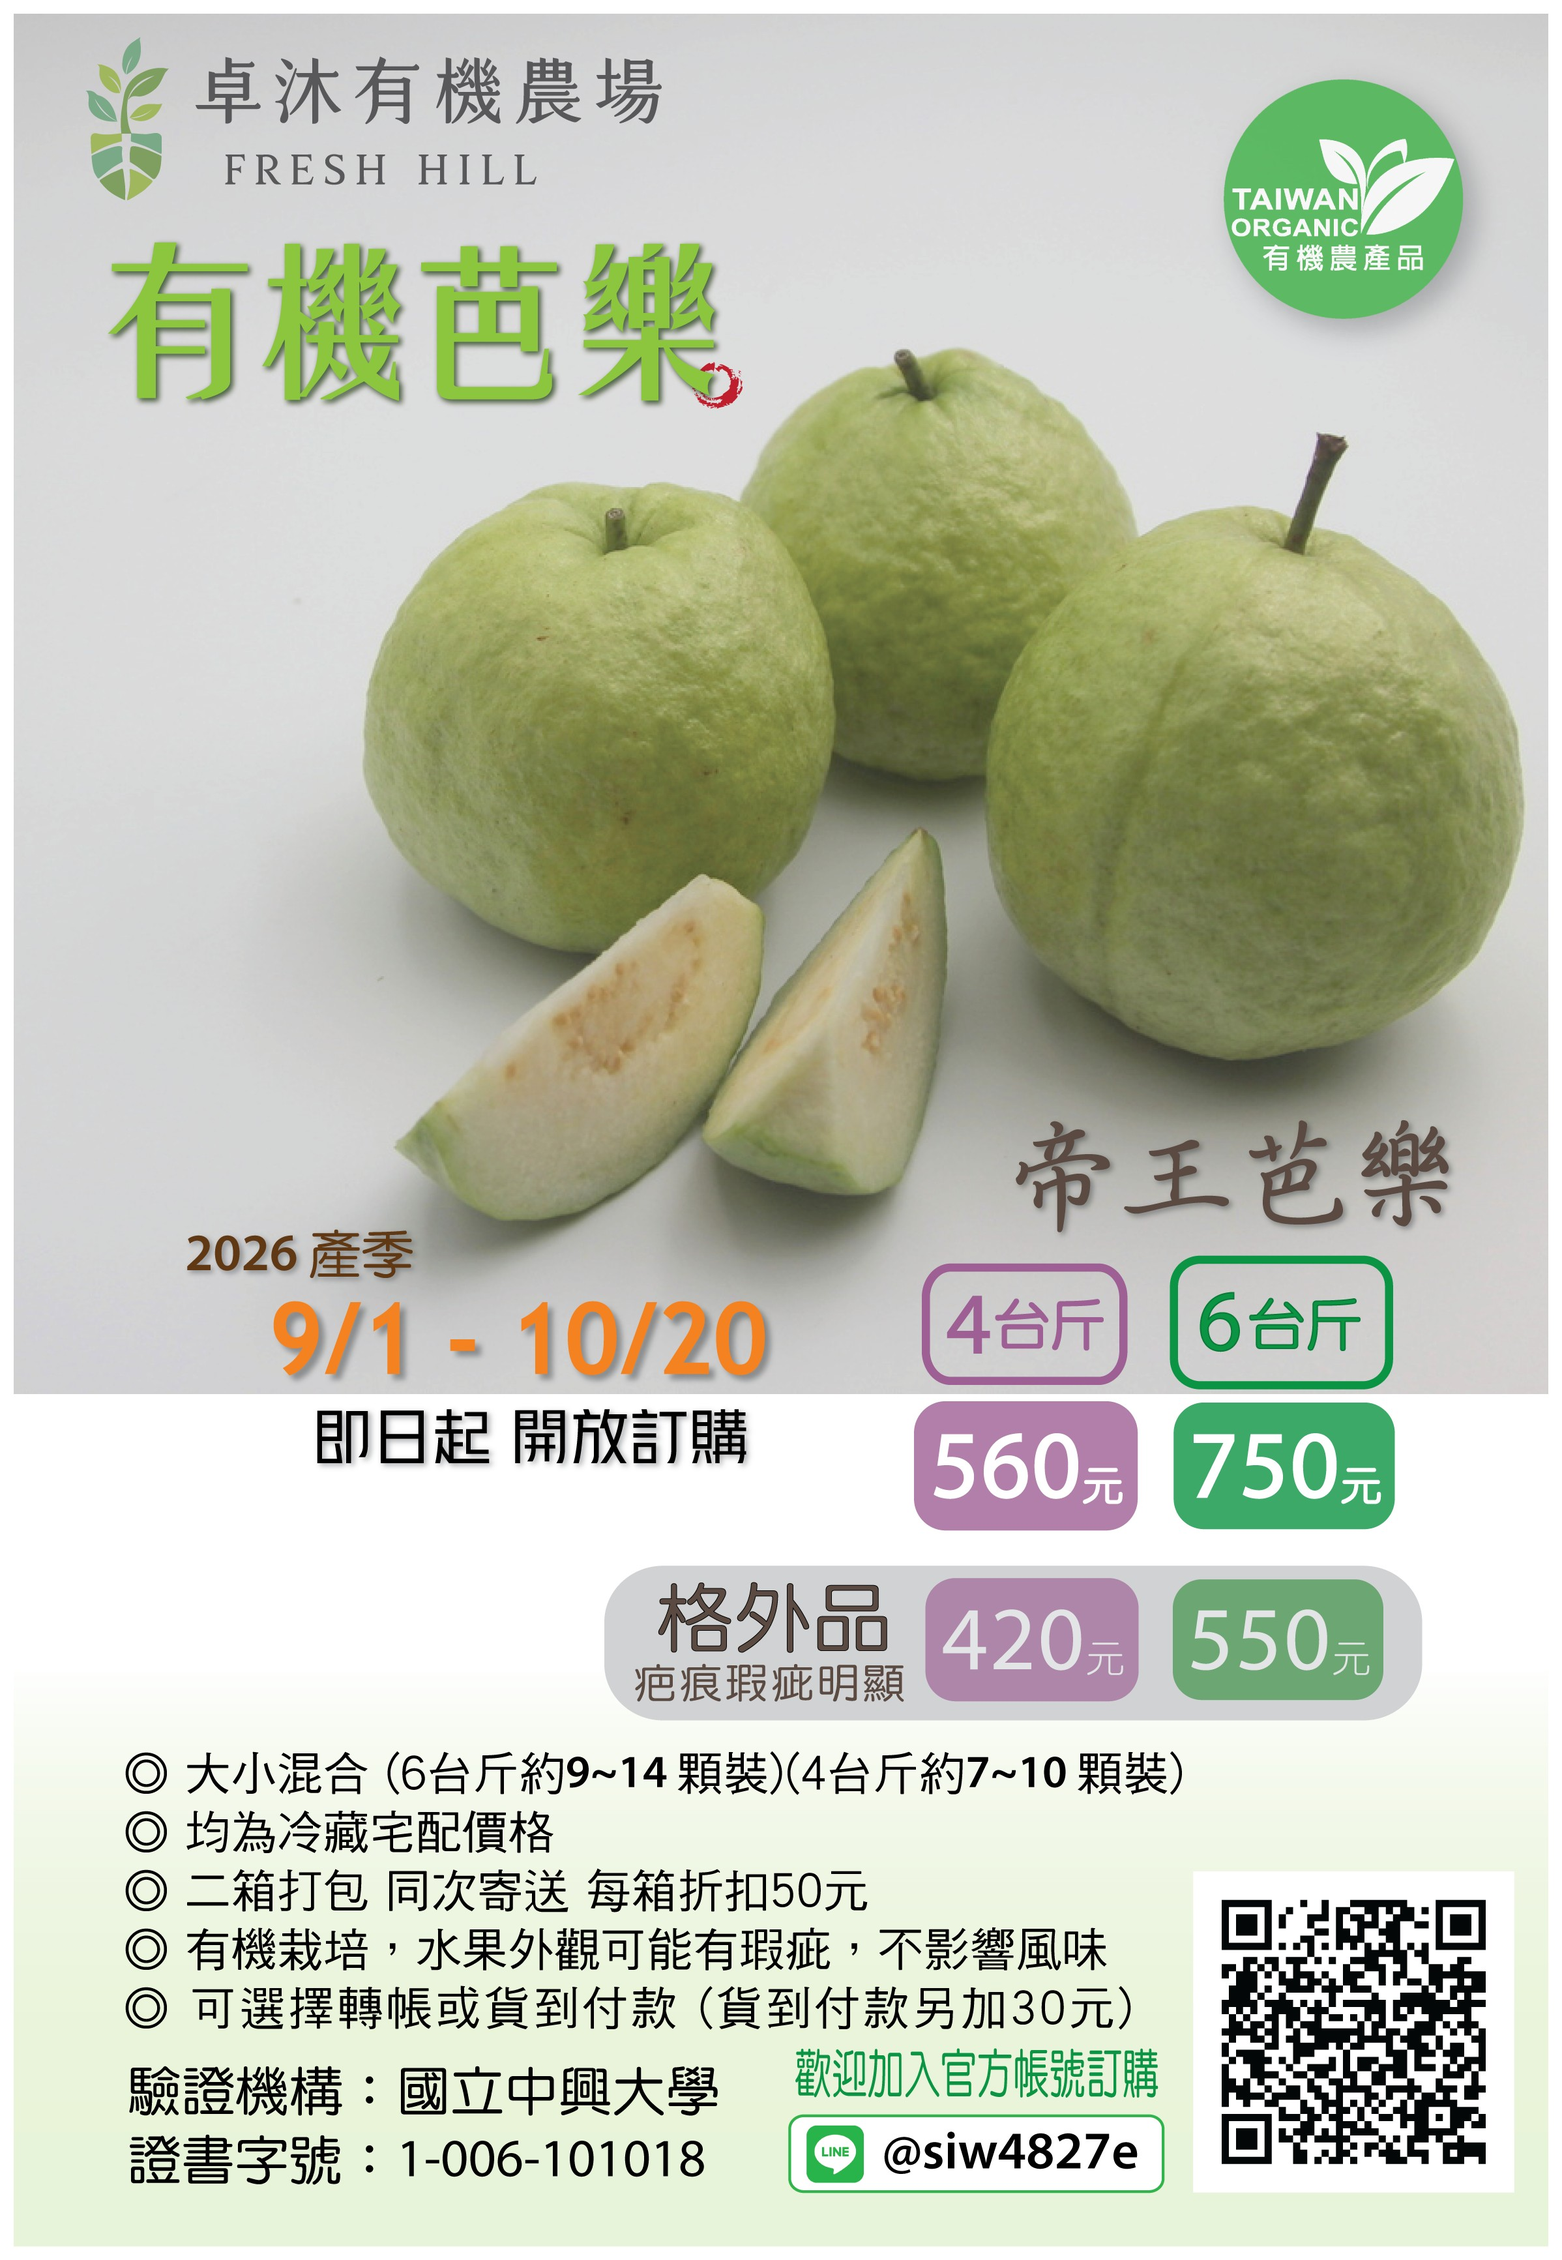
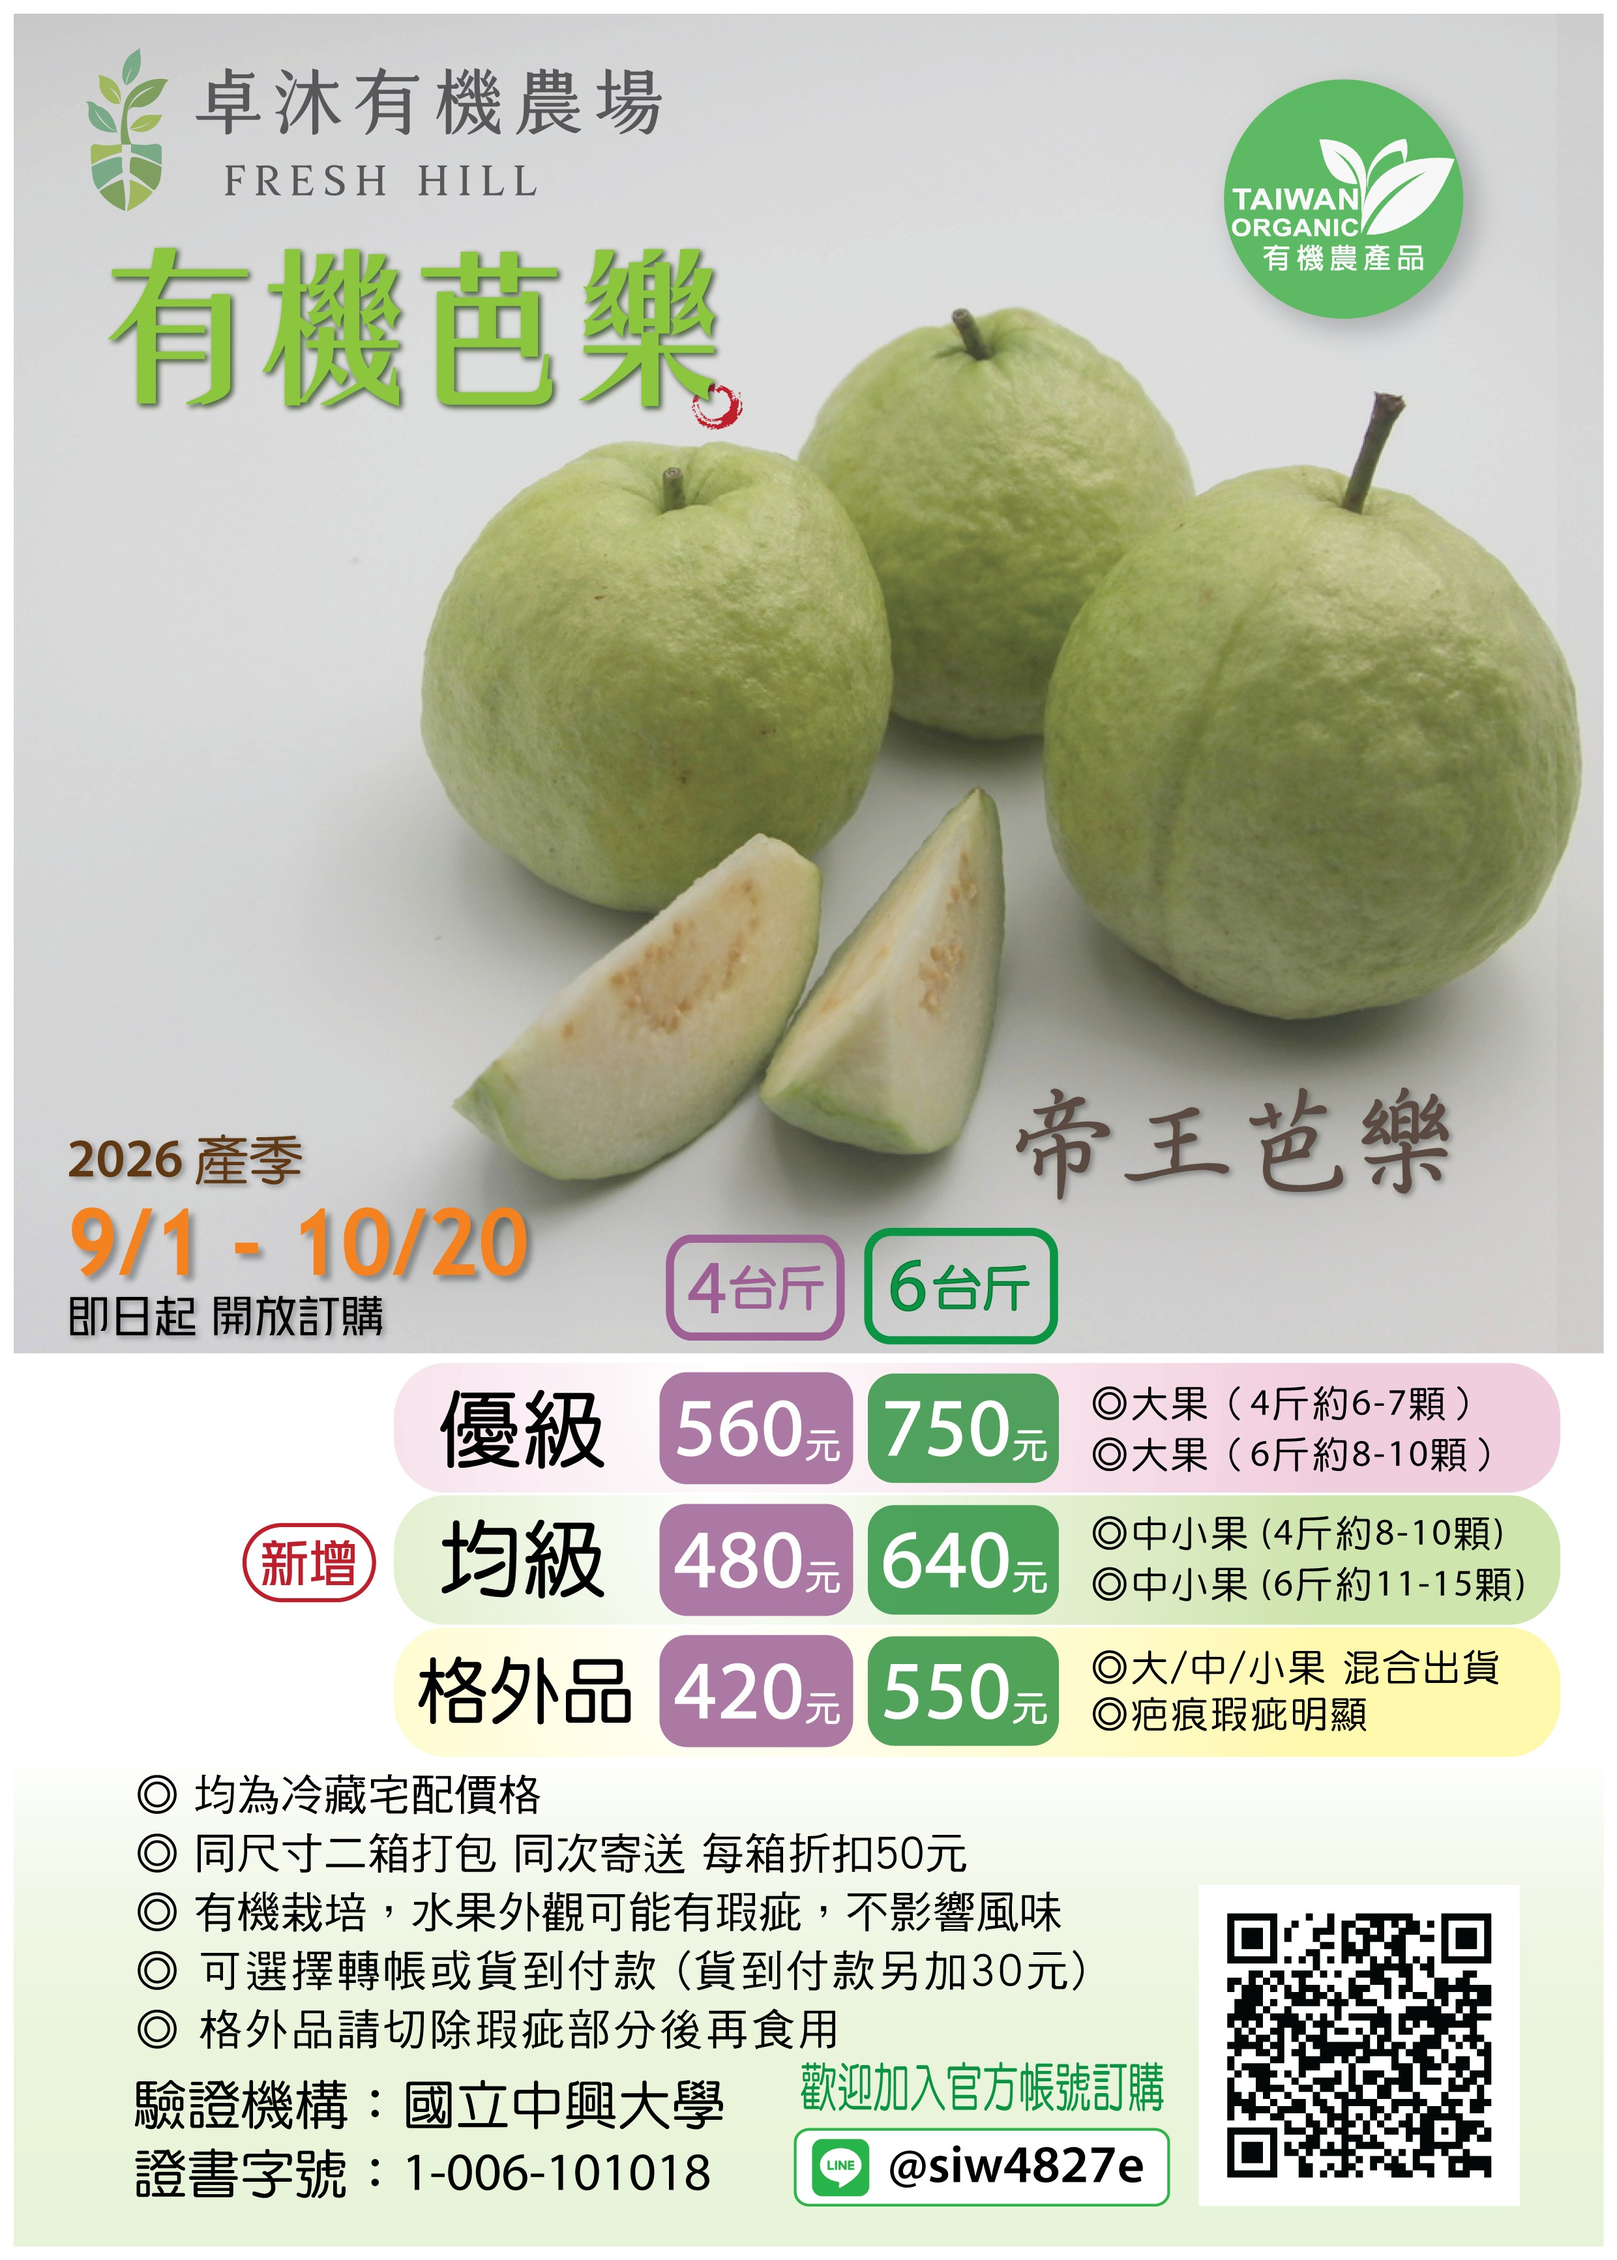
update guava DM and html

diff --git a/guava.html b/guava.html
@@ -45,7 +45,7 @@
                 <img class="img-fluid" src="images/guava_2026_autumn.jpg" alt="...">
                 <!-- Content -->
                 <div class="text-start">
-                    <h5 class="fw-bold">【帝王芭樂】2026/9/1</h5>
+                    <h5 class="fw-bold">【帝王芭樂】2026/9/28</h5>
                     <p>
                         <br>
                         初秋的帝王芭樂已開始採收出貨，產期預計到10月底，出貨規格為4台斤 或 6台斤，歡迎訂購～🙏<br>
@@ -62,8 +62,9 @@
                                 <label class="col col-auto col-form-label" for="formLevel1">1.</label>
                                 <select class="col form-select" id="formLevel1" aria-label="">
                                     <option selected>選擇等級</option>
-                                    <option value="1">正規品</option>
-                                    <option value="2">格外品</option>
+                                    <option value="1">優級</option>
+                                    <option value="2">均級</option>
+                                    <option value="3">格外品</option>
                                 </select>
                                 <select class="col form-select" id="formSpec1" aria-label="">
                                     <option selected>選擇重量</option>
@@ -77,8 +78,9 @@
                                 <label class="col col-auto col-form-label" for="formLevel2">2.</label>
                                 <select class="col form-select" id="formLevel2" aria-label="">
                                     <option selected>選擇等級</option>
-                                    <option value="1">正規品</option>
-                                    <option value="2">格外品</option>
+                                    <option value="1">優級</option>
+                                    <option value="2">均級</option>
+                                    <option value="3">格外品</option>
                                 </select>
                                 <select class="col form-select" id="formSpec2" aria-label="">
                                     <option selected>選擇重量</option>
@@ -92,8 +94,9 @@
                                 <label class="col col-auto col-form-label" for="formLevel3">3.</label>
                                 <select class="col form-select" id="formLevel3" aria-label="">
                                     <option selected>選擇等級</option>
-                                    <option value="1">正規品</option>
-                                    <option value="2">格外品</option>
+                                    <option value="1">優級</option>
+                                    <option value="2">均級</option>
+                                    <option value="3">格外品</option>
                                 </select>
                                 <select class="col form-select" id="formSpec3" aria-label="">
                                     <option selected>選擇重量</option>
